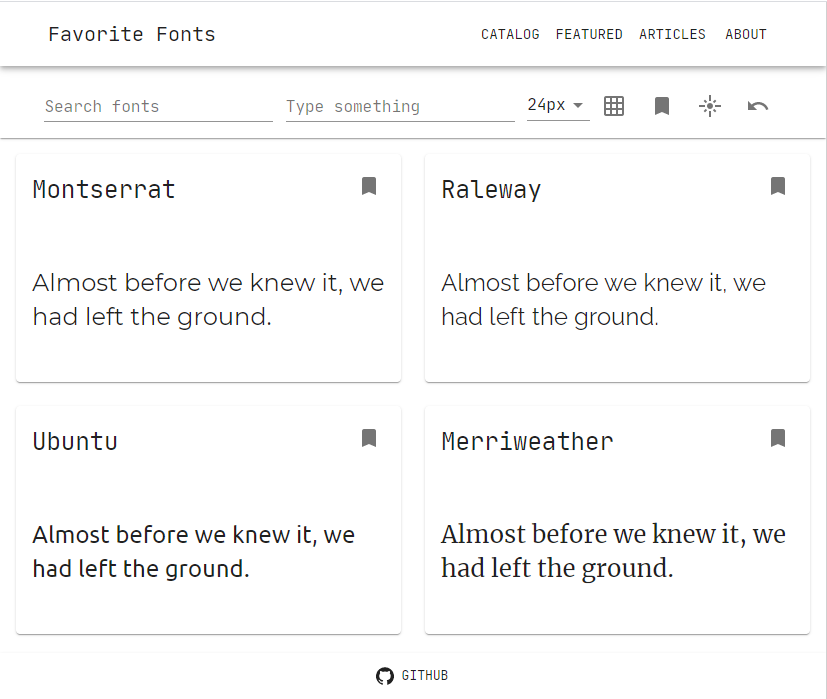
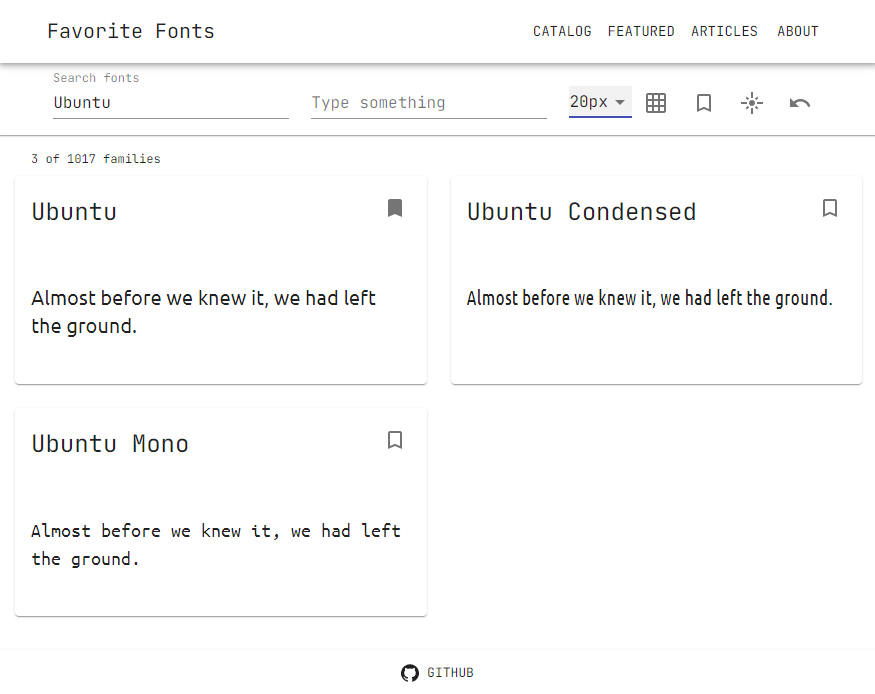
feat: add fonts counter

diff --git a/src/components/Cards.js b/src/components/Cards.js
@@ -8,11 +8,23 @@ const useStyles = makeStyles((theme) => ({
   container: {
     padding: theme.spacing(2),
   },
+  totalFonts: {
+    fontSize: 12,
+    paddingBottom: theme.spacing(1),
+    paddingLeft: theme.spacing(2),
+  },
 }));
 
 function Cards({
   fonts,
-  options: { fontText, fontSize, listMode, favorites, setVaforitesAndStorage },
+  options: {
+    fontText,
+    fontSize,
+    listMode,
+    favorites,
+    setVaforitesAndStorage,
+    totalFonts,
+  },
 }) {
   const classes = useStyles();
 
@@ -35,6 +47,9 @@ function Cards({
 
   return (
     <Container className={classes.container}>
+      <div className={classes.totalFonts}>
+        {fonts.length} of {totalFonts} families
+      </div>
       <Grid container spacing={3}>
         {fonts.map(({ category, family, url }) => (
           <Grid

diff --git a/src/components/AppMain.js b/src/components/AppMain.js
@@ -61,6 +61,7 @@ function AppMain({ fonts, theme, setTheme }) {
           listMode,
           favorites,
           setVaforitesAndStorage,
+          totalFonts: fonts.length,
         }}
       />
     </Paper>
